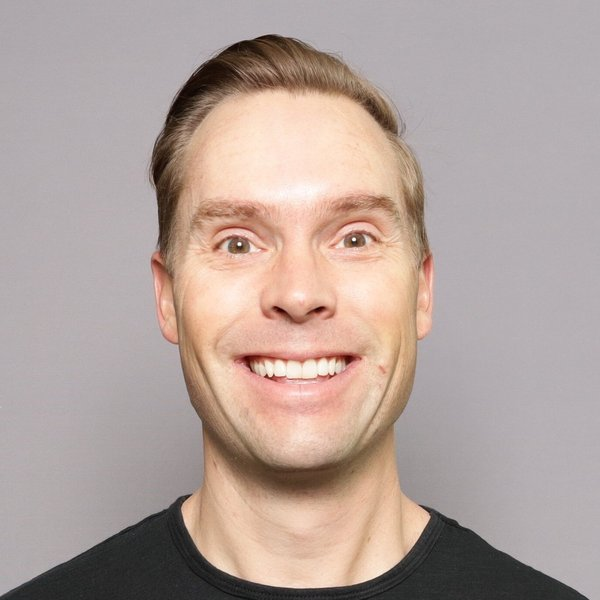
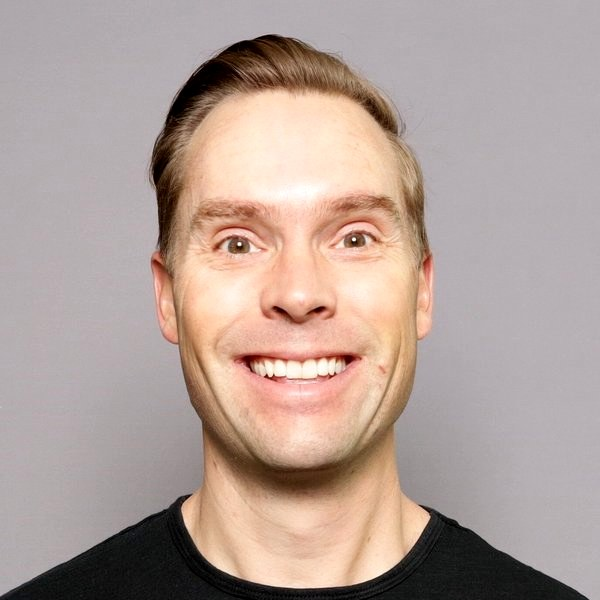
Add Brightfield Studio case study and brighten headshot
The first work card now shows Brightfield Studio, with its homepage hero
image, and links to brightfield.studio. The headshot gets a levels
adjustment (true blacks, slightly brighter midtones).

Claude-Session: https://claude.ai/code/session_016ninuuKRwYWcZE2zcWHymj

diff --git a/index.html b/index.html
@@ -185,6 +185,15 @@ h2 { font-size: clamp(2.5rem, 6vw, 4.5rem); line-height: 1.05; letter-spacing: -
   display: grid; grid-template-columns: repeat(auto-fit, minmax(min(260px, 100%), 1fr)); gap: 20px;
 }
 .work .placeholder-box { height: 190px; }
+.work-card { display: flex; flex-direction: column; border: 1px solid #e7e5e4; border-radius: 6px; overflow: hidden; background: #ffffff; }
+.work-card img { display: block; width: 100%; height: 190px; object-fit: cover; object-position: 60% 40%; }
+.work-card .work-body { padding: 16px 18px 20px; display: flex; flex-direction: column; gap: 6px; }
+.work-card h3 { margin: 0; font-size: 22px; }
+.work-card h3 a { color: var(--ink); text-decoration: none; }
+.work-card h3 a::after { content: " \2197"; color: var(--accent); }
+.work-card h3 a:hover { text-decoration: underline; }
+.work-card p { margin: 0; font-size: 16px; line-height: 1.5; }
+.work-tag { font-size: 13px; font-weight: 700; letter-spacing: 0.06em; text-transform: uppercase; color: var(--accent); }
 
 .cost .wrap { gap: 24px; align-items: flex-start; }
 .cost-note { max-width: 720px; font-size: 22px; color: var(--body-strong); }
@@ -410,7 +419,14 @@ h2 { font-size: clamp(2.5rem, 6vw, 4.5rem); line-height: 1.05; letter-spacing: -
     <div class="wrap">
       <h2 id="work-title">What have you built?</h2>
       <ul class="work">
-        <li class="placeholder-box">Placeholder: screenshot and name of a site you built</li>
+        <li class="work-card">
+          <img src="brightfield.jpg" alt="Brightfield Studio homepage: a person in a cobblestone street wearing a black T-shirt with a glowing purple and blue design" width="960" height="600" loading="lazy">
+          <div class="work-body">
+            <span class="work-tag">Online store</span>
+            <h3><a href="https://brightfield.studio" target="_blank" rel="noopener">Brightfield Studio</a></h3>
+            <p>A custom Shopify store for generative-art T-shirts. Shoppers adjust each design live in the browser and see it on a shirt before they order.</p>
+          </div>
+        </li>
         <li class="placeholder-box">Placeholder: screenshot and name of a site you built</li>
         <li class="placeholder-box">Placeholder: screenshot and name of a site you built</li>
       </ul>

diff --git a/tests/contact-form.spec.js b/tests/contact-form.spec.js
@@ -72,3 +72,11 @@ test('thanks page links back home and shows the phone number', async ({ page }) 
   await expect(page.getByRole('link', { name: 'Back to the homepage' })).toHaveAttribute('href', '/');
   await expect(page.getByRole('link', { name: '(319) 382-2960' })).toHaveAttribute('href', 'tel:+13193822960');
 });
+
+test('Brightfield case study card shows its image and links out', async ({ page }) => {
+  await page.goto('/');
+  const card = page.locator('#work .work-card').filter({ hasText: 'Brightfield Studio' });
+  await expect(card.getByRole('link', { name: 'Brightfield Studio' })).toHaveAttribute('href', 'https://brightfield.studio');
+  const loaded = await card.locator('img').evaluate(async (img) => { img.loading = 'eager'; await img.decode(); return img.naturalWidth; });
+  expect(loaded).toBeGreaterThan(0);
+});
